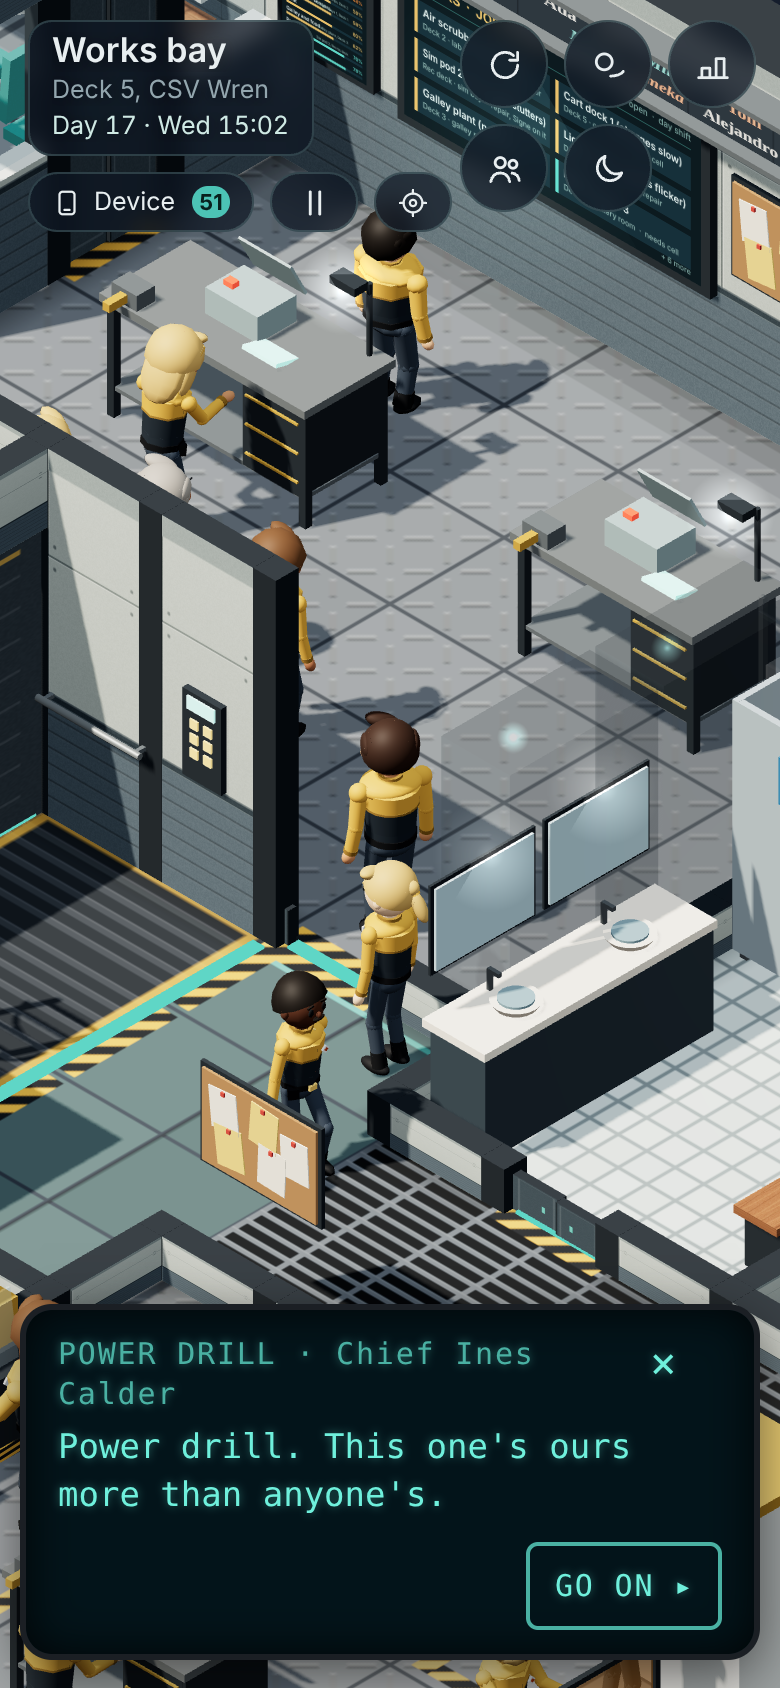
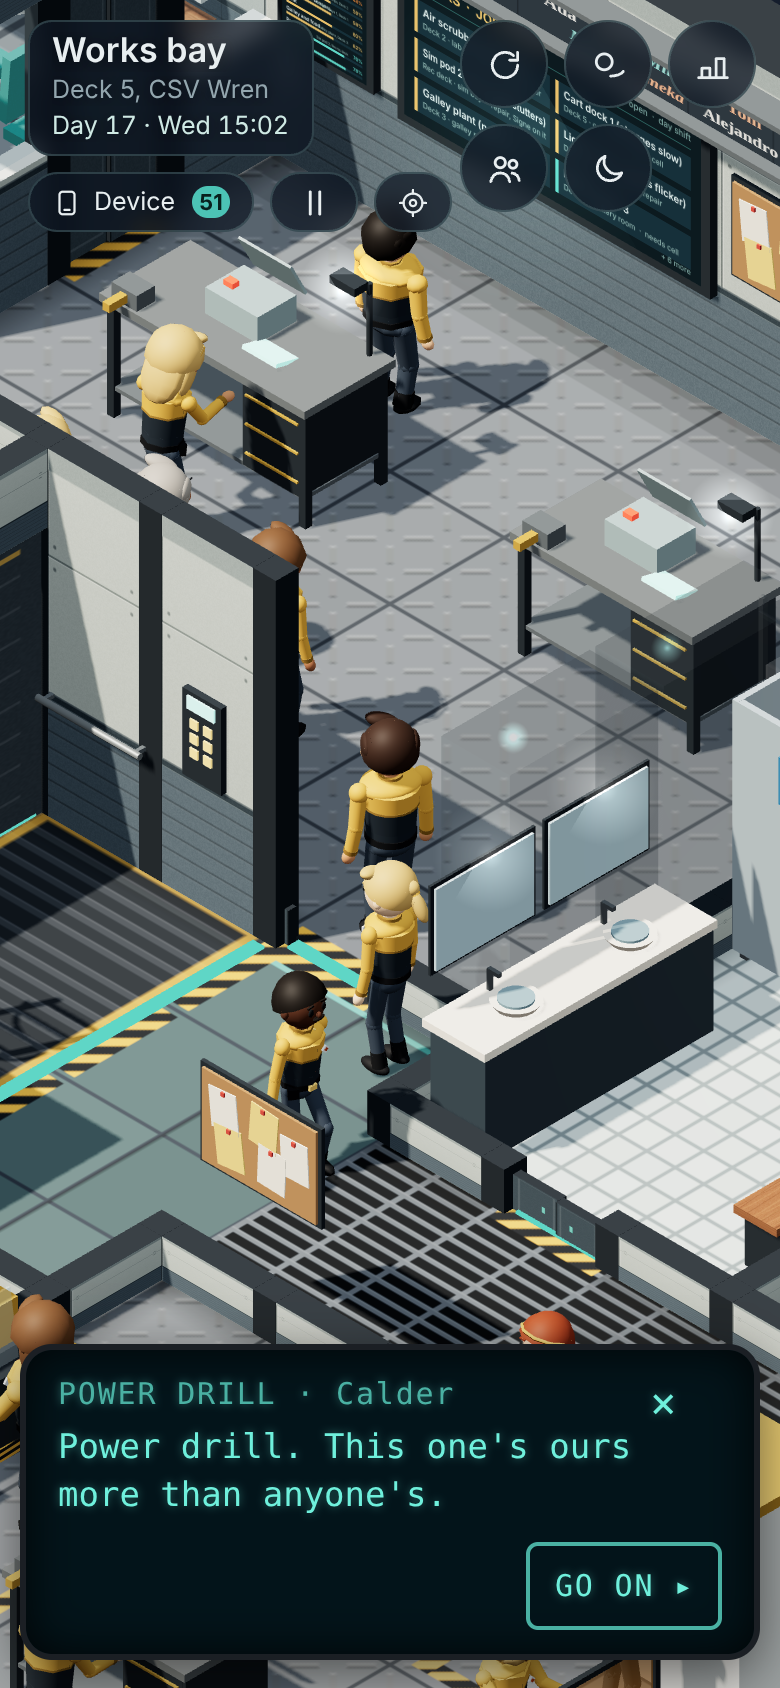
p9991-drills (TB7): final results in the build-table row, the power screenshot (docs only)
Claude-Session: https://claude.ai/code/session_01GKuymm61PakAiqe965r8d2

Changed region(s): [[0.0308, 0.7701, 0.9846, 0.8626]]

diff --git a/plans/build-table.md b/plans/build-table.md
@@ -1966,4 +1966,4 @@ Deck 4's static screenshots are pixel-identical from 0.5.0 through 0.5.7. The on
 | 0.99.8 candidate 2 (BM27 for lead 50, claude/staging-0998; round 0998's P) | **The Social marker no longer loops on the booths.** TP1 cc44f94 (MV1 PASS): with TP998_BOOTH_ON, once today's call is had, no needs marker or booth tips send you to the booths (they give nothing more today); the lonely toasts name company instead (tp998.social.1/2). TP1 91a75b4 (MV1 PASS, backlog TP1-4): the Needs app's Social line names company too. tp998.social.2 shortened by BM27 on lead 50's wording (97 -> 70 characters; lines_check's limit 90). Merges: build-table, DEV_NOTES and the baked LINES clashed; staging's words kept, both switches on, build 0.99.8, re-baked; lines_check PASS, names OK. Game sha256 13681748513f9b7cb51fc299c4789085d0636829d8297b9f0d29d00683259fd3. Gates: player_check OK, check_fast (see round-0998.md); arrows default, fresh_walk to Day 3 22:30 and cadet in R5 beside the round (lead 50). |
 | ev999-blink (EV1 for lead 51, claude/ev999-blink on main 33c737b; behind EV999_BLINK_ON, off) | **The Last Light's pale blink** (the user, 2026-11-07: "Keep the name, add a pale blink as the beacon passes"). Day 4 14:08, felt on every deck: section 8b's new feel `beacon`, two soft pale blue-white pulses through the hemisphere and sun light (about 2 s; reduced motion one slow swell), no meshes or draw calls, colour through col(); a moment's own one-line `notice` (eventMomentsTick). design-doc: the name moved to Answered. Off: cadet_test ALL IDENTICAL vs 0.99.8. Build-number lines untouched. |
 | 0.99.9 (BM27 for lead 51, claude/staging-0999 from main 33c737b; plans/round-0999.md) | **The Last Light's pale blink as the beacon passes.** EV1 claude/ev999-blink 5378fa0 + 6140e27 (perf scene) + e3202a0 (screenshots), RV34 PASS; EV999_BLINK_ON switched on (one line); build 0.99.9. Merge a fast-forward, no clashes. Gates: check_fast OK, events_check OK, cadet_test vs 0.99.8 ALL IDENTICAL (renderer noise only), EV1's blinkprobe: two pale pulses at Day 4 14:08, the notice. Game sha256 583d99ba12d299a70cb431ca41dfa2cdb86a3a03e12e646cbf0e861aa741bd16. |
-| p9991-drills (TB7 for lead 51, claude/p9991-drills from main bfbcbdf; plans/patch-09991.md piece C; behind TB9991_DRILL_ON, off) | **The Wednesday drill as a tradition** (the user, 2026-11-10: "just click on the cheif and the event starts. the event is just the cheif talking about the relevant drill and danger. simple"; TB6's plan, no question and answers). Switch `TB9991_DRILL_ON` (section 13, `?drill9991` previews). On: neither drill side job is posted (24c's 'drill', 24v's 'pwrdrill': an early return in each `post`), so no stops and no stopwatch; 24c's new block (below the drill tea): 14:50 Calder's toast and a level 1 arrow (guideAsk 'drill9991:<day>') to the muster line; from 14:55 Calder held at 5-muster-3, Zeke at -2, Halloran at -4 (crewHold, runtime only, when on Deck 5), a star over her from 15:00 (drill9991Frame from eventsTick); a tap on her, Zeke or Halloran (drill9991Tap, first in tradJoinTap) is the turnout: a Junior's simNote('drill', { mins: 0, you: true, day }) and worksUse('m3d'), a Senior's simNote('pwrDrill') and worksSideXp(1, 'pwrdrill'); her card 'drill9991.talk' (six lines of the week's kind, Zeke's line for fire, Halloran's for pressure, her close; no question), then you walk to a free muster spot; 15:15 the all-clear, holds let go; missed: the note with you: false and her word. The Friday tea's line says turnout (drill9991.tea). No briefing card before the first drill with it on. Words: content/works/drill9991.lines (stand-ins, the same as the code's). Checks: mech_check's m3d, m19 and fx3 follow the switch; plans/tb7-probes/drill.py (Days 3, 10, 17 at phone size; MISS=1). Dev mode's career arrow points at 5-muster-3 with it on. Build-number lines untouched. **Results** (game sha256 258ad821d66b335c714364af99e9e60b0464f634d6dec3ffdaadaabca87d2920): off: check_fast OK, mech_check OK, cadet_test vs 0.99.9 ALL IDENTICAL (run on the build before two last edits, both only reached with the switch on: the Dev arrow's place and the card's `cardWhere`); on (a copy): mech_check OK (m3d, m19, fx3 on their switched-on branches), day_check Day 3 OK, interactions OK, devmode OK, dev_arrow OK, player OK, career OK, the probe OK (tapped, all three kinds; missed); lines_check PASS, names_check OK. Seen: Zeke is not on Deck 5 at 15:00 on those Wednesdays (his line is in the card anyway); Halloran stands within about 2 m of his spot. |
+| p9991-drills (TB7 for lead 51, claude/p9991-drills from main bfbcbdf; plans/patch-09991.md piece C; behind TB9991_DRILL_ON, off) | **The Wednesday drill as a tradition** (the user, 2026-11-10: "just click on the cheif and the event starts. the event is just the cheif talking about the relevant drill and danger. simple"; TB6's plan, no question and answers). Switch `TB9991_DRILL_ON` (section 13, `?drill9991` previews). On: neither drill side job is posted (24c's 'drill', 24v's 'pwrdrill': an early return in each `post`), so no stops and no stopwatch; 24c's new block (below the drill tea): 14:50 Calder's toast and a level 1 arrow (guideAsk 'drill9991:<day>') to the muster line; from 14:55 Calder held at 5-muster-3, Zeke at -2, Halloran at -4 (crewHold, runtime only, when on Deck 5), a star over her from 15:00 (drill9991Frame from eventsTick); a tap on her, Zeke or Halloran (drill9991Tap, first in tradJoinTap) is the turnout: a Junior's simNote('drill', { mins: 0, you: true, day }) and worksUse('m3d'), a Senior's simNote('pwrDrill') and worksSideXp(1, 'pwrdrill'); her card 'drill9991.talk' (six lines of the week's kind, Zeke's line for fire, Halloran's for pressure, her close; no question), then you walk to a free muster spot; 15:15 the all-clear, holds let go; missed: the note with you: false and her word. The Friday tea's line says turnout (drill9991.tea). No briefing card before the first drill with it on. Words: content/works/drill9991.lines (stand-ins, the same as the code's). Checks: mech_check's m3d, m19 and fx3 follow the switch; plans/tb7-probes/drill.py (Days 3, 10, 17 at phone size; MISS=1). Dev mode's career arrow points at 5-muster-3 with it on. Build-number lines untouched. **After lead 51's and RV36's notes:** Zeke and Halloran brought from their work deck to the line (crewScene, live only, renewed each frame on Deck 5, 14:55-15:15); if one isn't there when the card opens, Calder says his line (drill9991.<kind>.crew.calder); the card's header uses short names (Calder, Zeke, Halloran; this card's cast only). **Results** on the final game (sha256 8e1e86b423d8d703d361b366930cf4d87cba98c960c501775dbe1825695e18c7): off: cadet_test vs 0.99.9 ALL IDENTICAL, check_fast OK; on (a copy): mech_check OK (full), day_check Day 3 OK, interactions OK, devmode OK, dev_arrow OK, player OK, career OK, the probe OK (Days 3, 10, 17, all three on their spots by about 15:05; missed on Day 3), lines_check PASS, names_check OK. Phone screenshots: plans/tb7-probes/drill-fire/pressure/power.png. |
